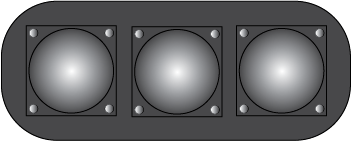
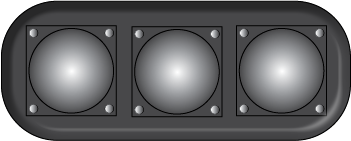
lights adjusted

Changed region(s): [[0.0, 0.0, 0.9402, 0.8794], [0.1709, 0.5957, 0.9687, 0.9362]]

diff --git a/index.html b/index.html
@@ -33,13 +33,13 @@
                 <div class="startLight fadeOut">
                     <div>
                         <div class="pos">
-                            <div class="light pos stop" ></div>
+                            <div class="light pos stop margin-1" ></div>
                         </div> 
                         <div class="pos">
-                            <div class="light pos slow" ></div>
+                            <div class="light pos slow margin-2" ></div>
                         </div> 
                         <div class="pos">
-                            <div class="light pos go" ></div>
+                            <div class="light pos go margin-3" ></div>
                         </div>
                     </div>                        
                 </div>

diff --git a/style.css b/style.css
@@ -111,9 +111,18 @@ body {
 
 .pos {
     padding: 9px;
-    margin-top: 8px;
     
 }
+
+.margin-1{    margin-top: 18px;
+  margin-left: 2px;
+}
+
+.margin-2{margin-top: 19px;
+margin-left: 3px;
+
+}
+.margin-3{margin-top: 19px; margin-left: 2px;}
 
 
 .wallcarbon {
